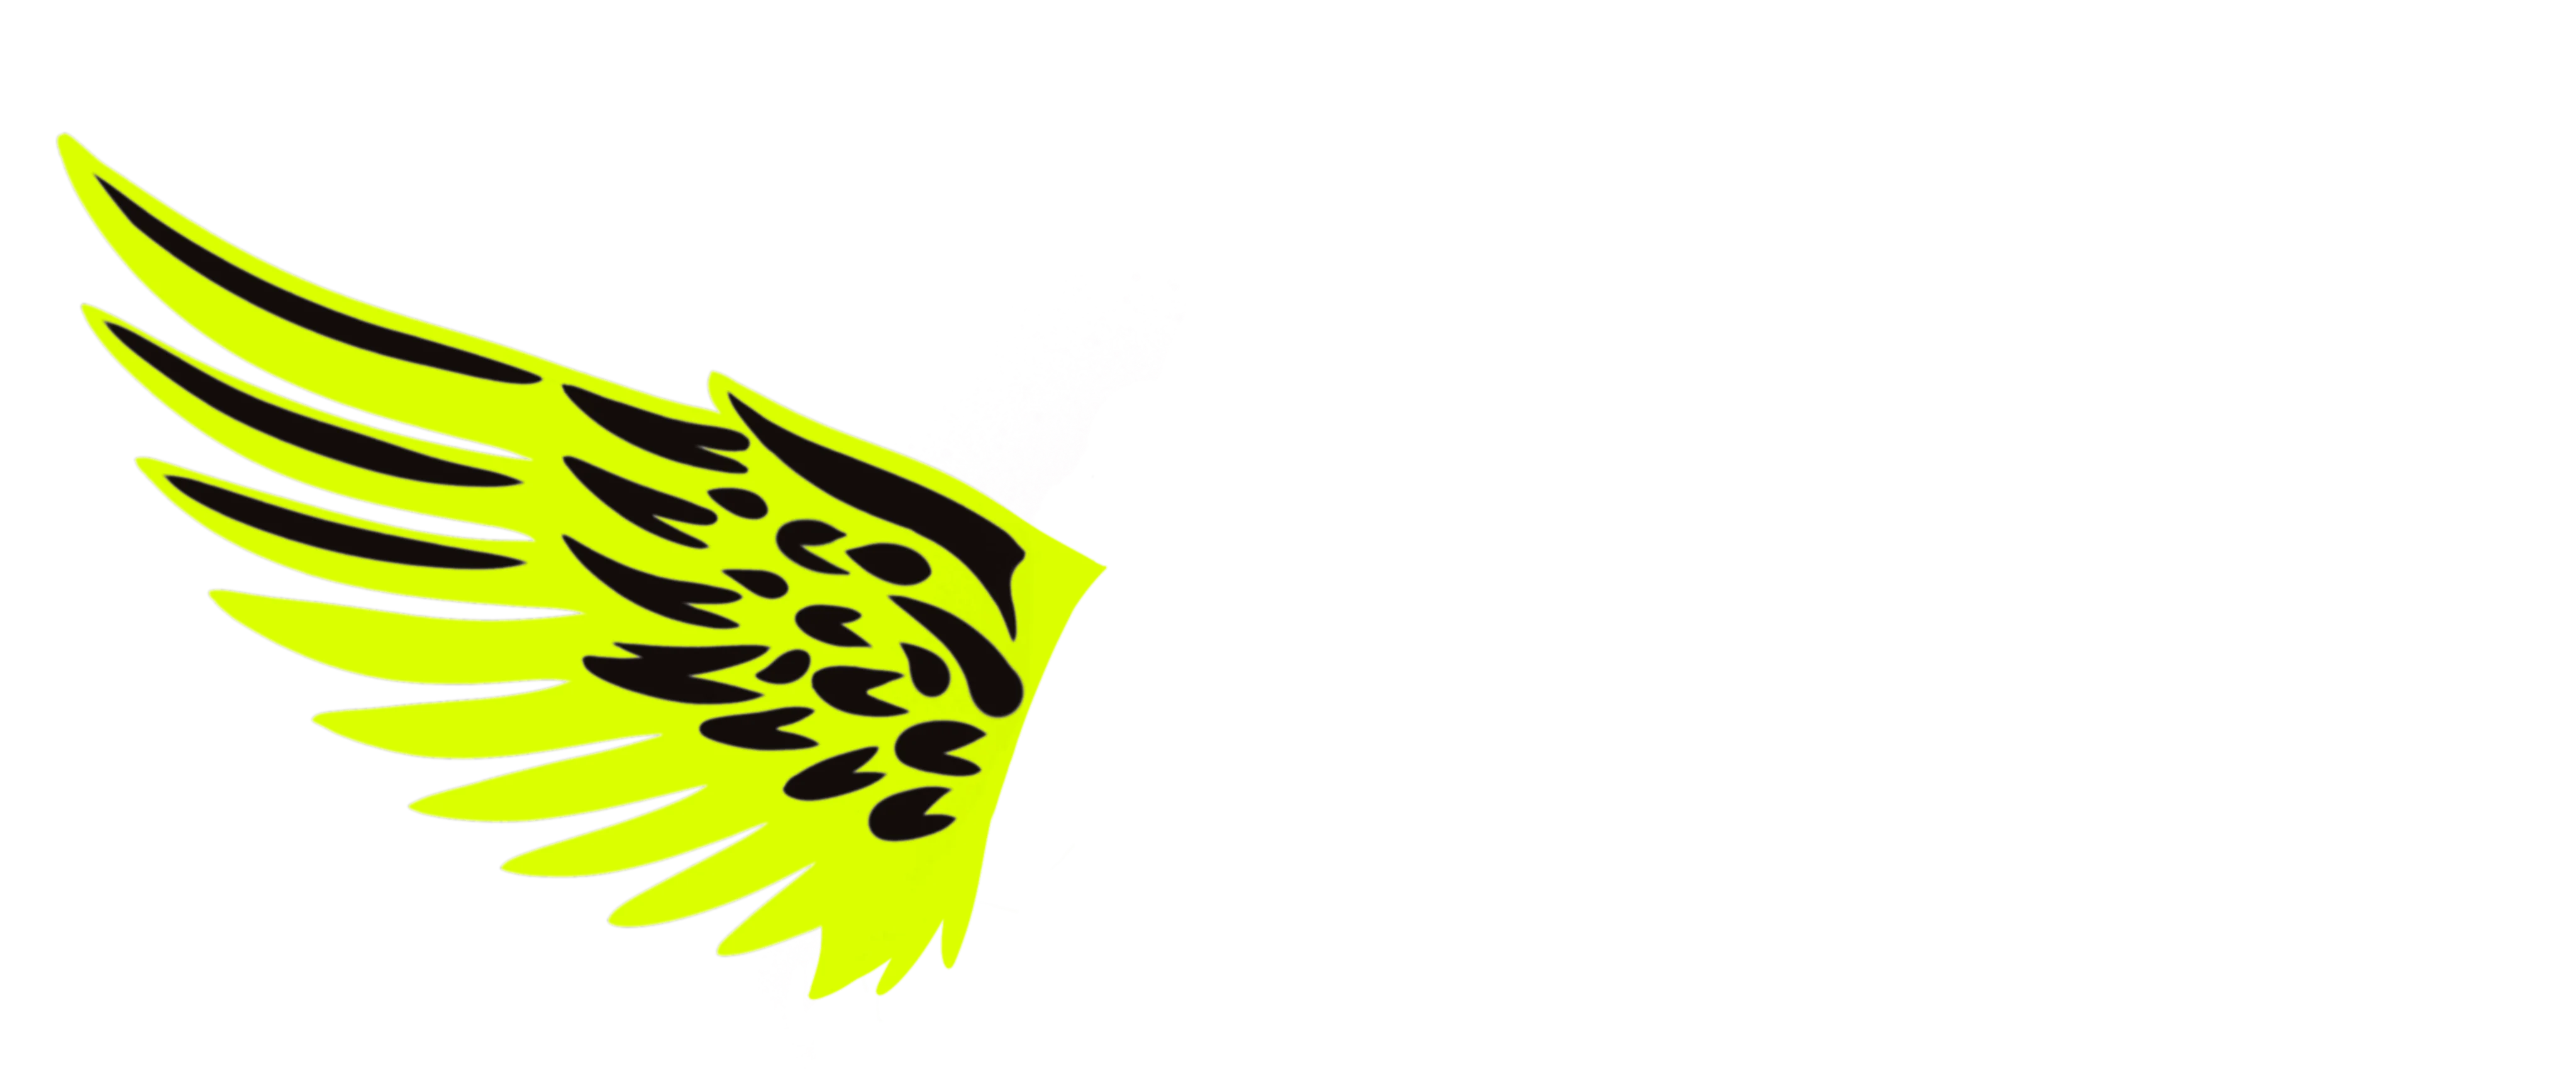
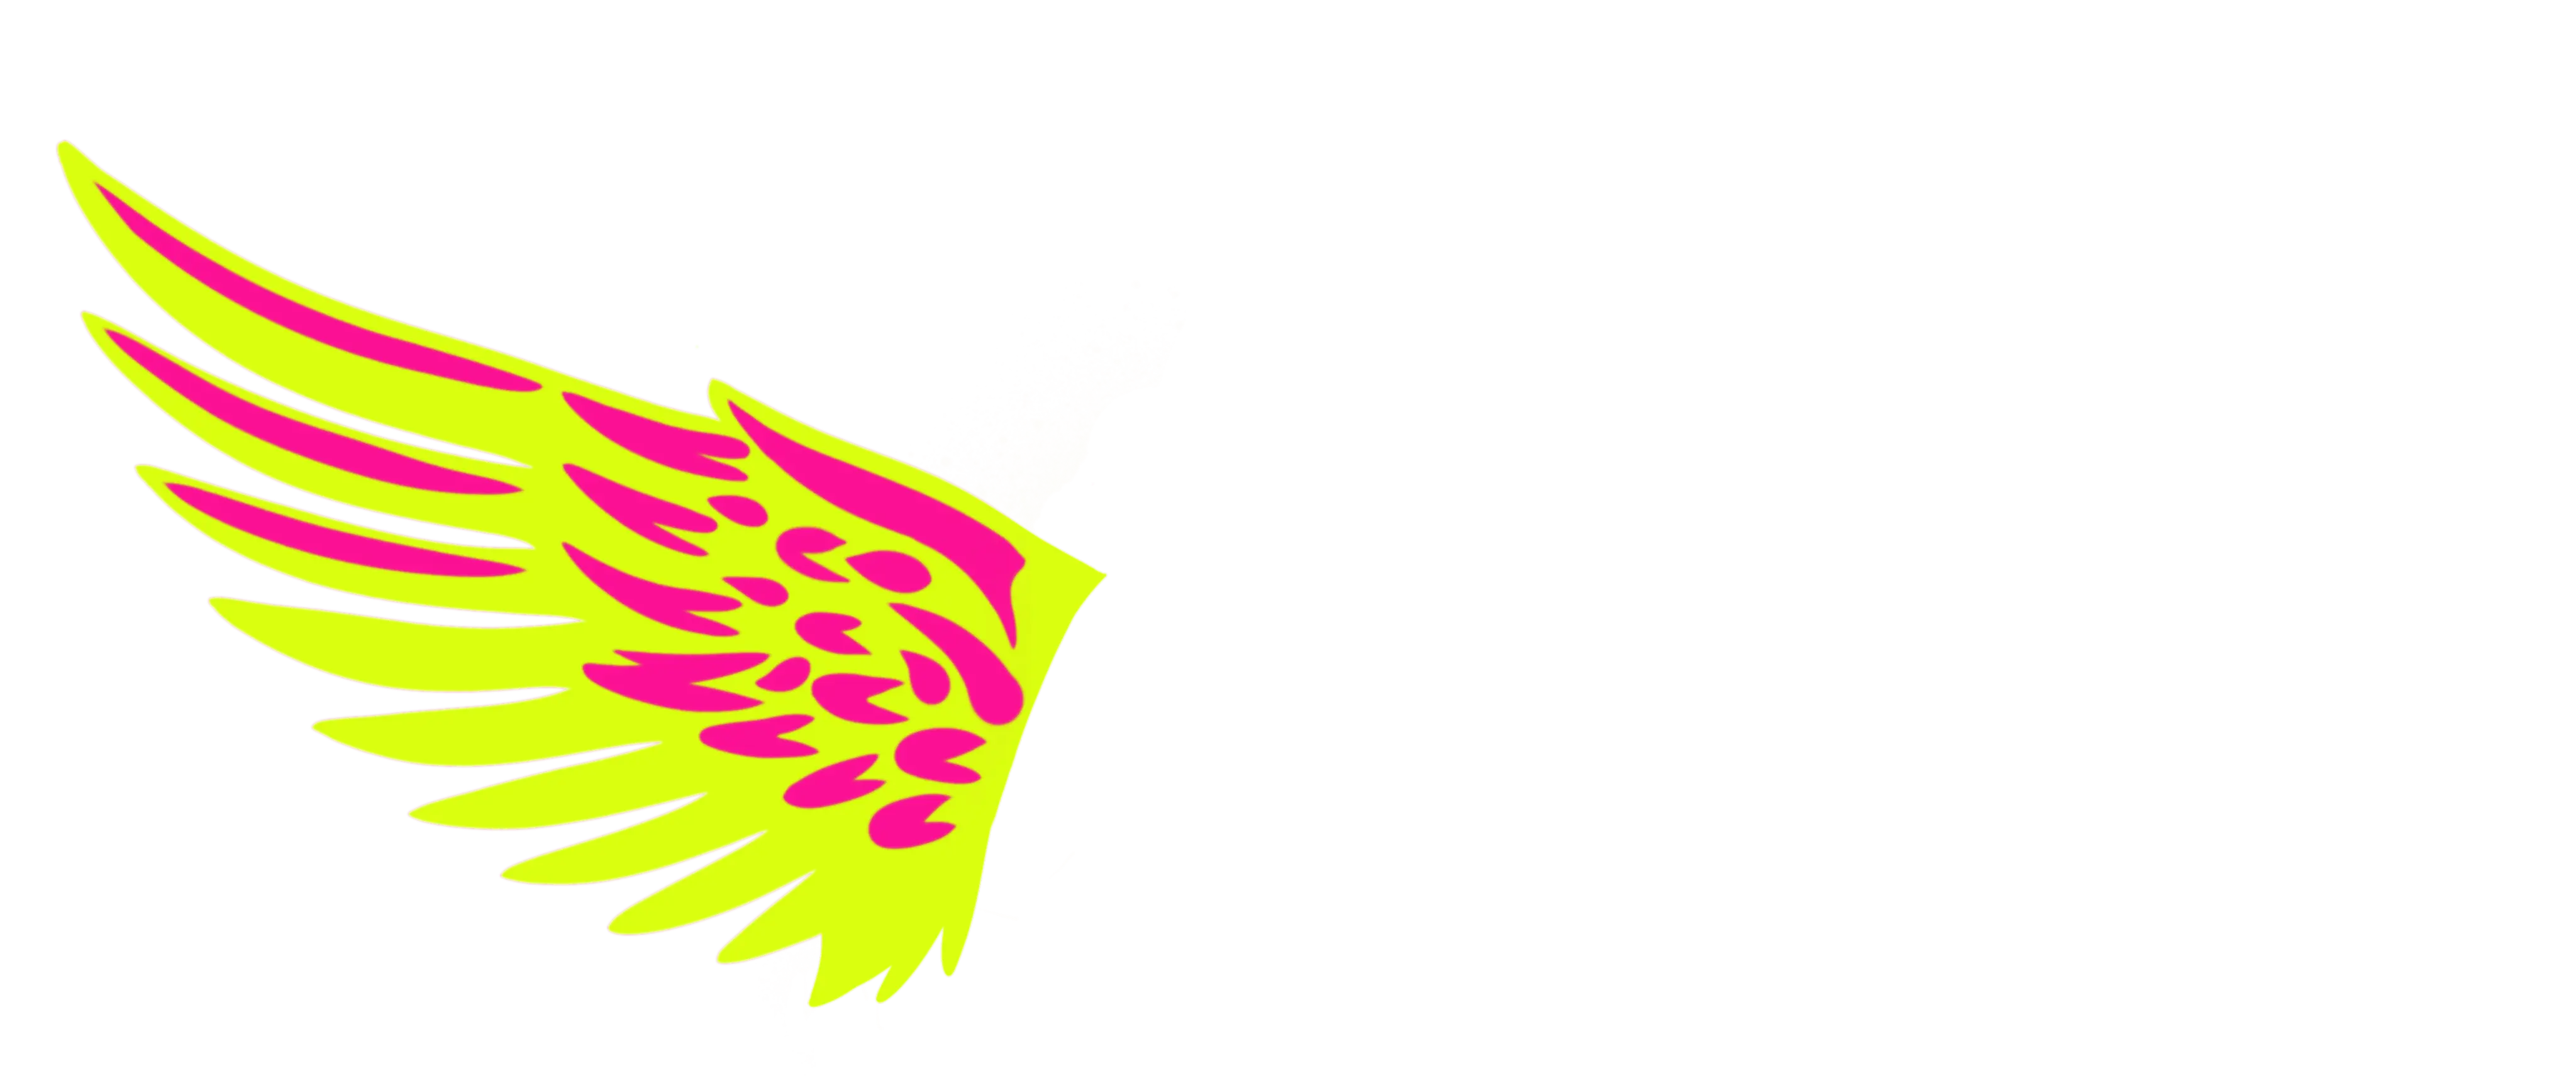
Update

Changed region(s): [[0.0312, 0.1546, 0.4375, 0.8967], [0.3125, 0.8658, 0.375, 0.9277], [0.0, 0.1237, 0.0312, 0.1546]]

diff --git a/frontend/src/App.tsx b/frontend/src/App.tsx
@@ -189,14 +189,14 @@ function App() {
                       </div>
                       <p className="text-white/40 text-sm mt-2" style={{ fontFamily: "'Inter', sans-serif" }}>May 2026 - Aug 2026</p>
                       <p className="text-white/80 text-base mt-3 leading-relaxed" style={{ fontFamily: "'Inter', sans-serif" }}>
-                        Incoming S26 | Molecular Generation
+                        Molecular Generation
                       </p>
                     </CardItem>
                   </CardBody>
                 </CardContainer>
               </div>
               {/* Dot */}
-              <div className="timeline-dot absolute left-1/2 -translate-x-1/2 w-6 h-6 rounded-full bg-[#d0ff00] z-10" />
+              <div className="timeline-dot absolute left-1/2 -translate-x-1/2 w-6 h-6 rounded-full bg-[#FF1493] z-10" />
               <div className="timeline-img w-1/2 pl-12">
                 <img src={sickKidsHospital} alt="SickKids Hospital" className="w-full rounded-2xl object-cover h-48" loading="lazy" />
               </div>
@@ -208,7 +208,7 @@ function App() {
                 <img src={wataiImage} alt="WAT.ai" className="w-full rounded-2xl object-cover h-48" loading="lazy" />
               </div>
               {/* Dot */}
-              <div className="timeline-dot absolute left-1/2 -translate-x-1/2 w-6 h-6 rounded-full bg-[#d0ff00] z-10" />
+              <div className="timeline-dot absolute left-1/2 -translate-x-1/2 w-6 h-6 rounded-full bg-[#FF1493] z-10" />
               <div className="timeline-card timeline-card-right w-1/2 pl-12">
                 <CardContainer className="w-full" containerClassName="py-0 w-full">
                   <CardBody className="w-full">
@@ -256,7 +256,7 @@ function App() {
                 </CardContainer>
               </div>
               {/* Dot */}
-              <div className="timeline-dot absolute left-1/2 -translate-x-1/2 w-6 h-6 rounded-full bg-[#d0ff00] z-10" />
+              <div className="timeline-dot absolute left-1/2 -translate-x-1/2 w-6 h-6 rounded-full bg-[#FF1493] z-10" />
               <div className="timeline-img w-1/2 pl-12">
                 <img src={utcImage} alt="Unionville Tennis Club" className="w-full rounded-2xl object-cover h-48" loading="lazy" />
               </div>
@@ -267,15 +267,15 @@ function App() {
       </section>
 
       {/* Technical Skills */}
-      <section id="skills" className="fade-in-section flex flex-col items-start justify-start px-25 py-12 relative overflow-hidden">
+      <section id="skills" className="fade-in-section flex flex-col items-start justify-start px-25 py-8 relative overflow-hidden">
         <HexagonBackground />
-        <div className="relative z-10 w-full border border-white/50 rounded-2xl pt-10 pb-6 px-6 skills-box">
-          <h2
-            className="skills-title absolute -top-7 left-8 text-white leading-none px-4"
-            style={{ fontFamily: "'Klein Condensed', sans-serif", fontWeight: 800, fontSize: '4rem', backgroundColor: '#01030a' }}
-          >
-            TECHNICAL SKILLS
-          </h2>
+        <h2
+          className="relative z-10 text-white leading-none mb-8"
+          style={{ fontFamily: "'Klein Condensed', sans-serif", fontWeight: 800, fontSize: '4rem' }}
+        >
+          TECHNICAL SKILLS
+        </h2>
+        <div className="relative z-10 w-full">
           <SkillDock />
         </div>
       </section>
@@ -360,7 +360,7 @@ function App() {
 
       {/* Education */}
       <section id="education" className="fade-in-section relative flex flex-col items-start justify-start px-25 py-12 overflow-hidden">
-        <img src={waterlooSeal} alt="" className="absolute inset-0 w-full h-full object-contain pointer-events-none z-0" style={{ opacity: 0.09 }} />
+        <img src={waterlooSeal} alt="" className="absolute inset-0 w-full h-full object-contain pointer-events-none z-0" style={{ opacity: 0.17 }} />
         <h2
           className="relative z-10 text-white leading-none mb-16"
           style={{ fontFamily: "'Klein Condensed', sans-serif", fontWeight: 800, fontSize: '4rem' }}
@@ -402,7 +402,7 @@ function App() {
                 </CardContainer>
               </div>
               {/* Dot */}
-              <div className="timeline-dot absolute left-1/2 -translate-x-1/2 w-6 h-6 rounded-full bg-[#d0ff00] z-10" />
+              <div className="timeline-dot absolute left-1/2 -translate-x-1/2 w-6 h-6 rounded-full bg-[#FF1493] z-10" />
               <div className="timeline-img w-1/2 pl-12">
                 <img src={waterlooimage} alt="waterloo" className="w-full rounded-2xl object-cover h-48" loading="lazy" />
               </div>
@@ -414,7 +414,7 @@ function App() {
                 <img src={bcssImage} alt="bcss" className="w-full h-48 object-cover rounded-2xl" loading="lazy" />
               </div>
               {/* Dot */}
-              <div className="timeline-dot absolute left-1/2 -translate-x-1/2 w-6 h-6 rounded-full bg-[#d0ff00] z-10" />
+              <div className="timeline-dot absolute left-1/2 -translate-x-1/2 w-6 h-6 rounded-full bg-[#FF1493] z-10" />
               <div className="timeline-card timeline-card-right w-1/2 pl-12">
                 <CardContainer className="w-full" containerClassName="py-0 w-full">
                   <CardBody className="w-full">
@@ -448,7 +448,7 @@ function App() {
 
       {/* Extracurriculars */}
       <section id="extracurriculars" className="fade-in-section flex flex-col items-start justify-start px-25 py-12 relative overflow-hidden">
-        <img src={warriorHelm} alt="" className="absolute inset-0 w-full h-full object-contain pointer-events-none z-0" style={{ opacity: 0.21 }} />
+        <img src={warriorHelm} alt="" className="absolute inset-0 w-full h-full object-contain pointer-events-none z-0" style={{ opacity: 0.25 }} />
         <h2
           className="relative z-10 text-white leading-none mb-16"
           style={{ fontFamily: "'Klein Condensed', sans-serif", fontWeight: 800, fontSize: '4rem' }}
@@ -487,7 +487,7 @@ function App() {
                 </CardContainer>
               </div>
               {/* Dot */}
-              <div className="timeline-dot absolute left-1/2 -translate-x-1/2 w-6 h-6 rounded-full bg-[#d0ff00] z-10" />
+              <div className="timeline-dot absolute left-1/2 -translate-x-1/2 w-6 h-6 rounded-full bg-[#FF1493] z-10" />
               <div className="timeline-img w-1/2 pl-12">
                 <img src={xcteam} alt="Placeholder" className="w-full rounded-2xl object-cover h-48" loading="lazy" />
               </div>
@@ -499,7 +499,7 @@ function App() {
                 <img src={uttcTeam} alt="Placeholder" className="w-full rounded-2xl object-cover h-48" loading="lazy" />
               </div>
               {/* Dot */}
-              <div className="timeline-dot absolute left-1/2 -translate-x-1/2 w-6 h-6 rounded-full bg-[#d0ff00] z-10" />
+              <div className="timeline-dot absolute left-1/2 -translate-x-1/2 w-6 h-6 rounded-full bg-[#FF1493] z-10" />
               <div className="timeline-card timeline-card-right w-1/2 pl-12">
                 <CardContainer className="w-full" containerClassName="py-0 w-full">
                   <CardBody className="w-full">
@@ -547,7 +547,7 @@ function App() {
                 </CardContainer>
               </div>
               {/* Dot */}
-              <div className="timeline-dot absolute left-1/2 -translate-x-1/2 w-6 h-6 rounded-full bg-[#d0ff00] z-10" />
+              <div className="timeline-dot absolute left-1/2 -translate-x-1/2 w-6 h-6 rounded-full bg-[#FF1493] z-10" />
               <div className="timeline-img w-1/2 pl-12">
                 <img src={avivaCentre} alt="Placeholder" className="w-full rounded-2xl object-cover h-48" loading="lazy" />
               </div>

diff --git a/frontend/index.html b/frontend/index.html
@@ -2,7 +2,7 @@
 <html lang="en">
   <head>
     <meta charset="UTF-8" />
-    <link rel="icon" type="image/png" href="/website_icon.png" />
+    <link rel="icon" type="image/png" href="/icon.png" />
     <meta name="viewport" content="width=device-width, initial-scale=1.0" />
     <title>Michael L's Portfolio Website</title>
     <link rel="preconnect" href="https://fonts.googleapis.com" />

diff --git a/frontend/src/components/HexagonBackground.tsx b/frontend/src/components/HexagonBackground.tsx
@@ -14,7 +14,7 @@ export default function HexagonBackground({
   hexagonSize = 60,
   hexagonMargin = 2,
   glowColor = "rgb(223, 26, 160)",
-  borderColor = "rgba(162, 0, 110, 0.44)",
+  borderColor = "rgba(162, 0, 111, 0.52)",
 }: HexagonBackgroundProps) {
   const containerRef = useRef<HTMLDivElement>(null);
   const [grid, setGrid] = useState({ rows: 0, cols: 0, scale: 1 });